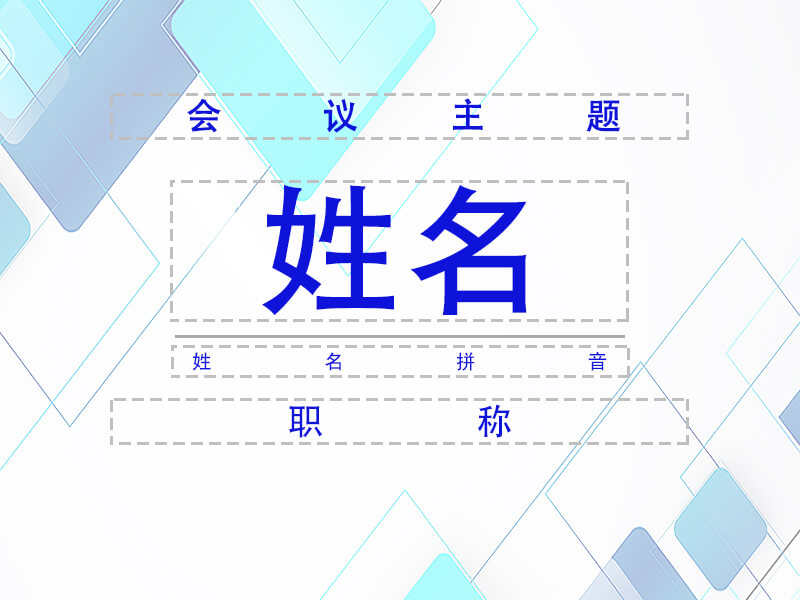
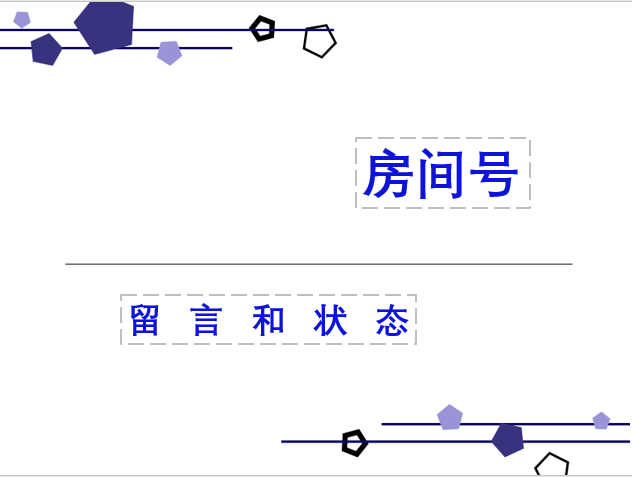
1.0.1
添加了一些页面

diff --git a/app.js b/app.js
@@ -2,24 +2,32 @@
 App({
     globalData: {
         deviceNum: 0,
-        maxModelNum: 3,
+        maxModelNum: 4,
         modelNum: 0,
         modelName: [
             '模板1',
             '模板2',
-            '模板3'
+            '模板3',
+            '模板4',
         ],
         modelRealName: [
           'BJ1.BMP',
           'BJ2.BMP',
           'BJ3.BMP',
+          'BJ1.BMP',
         ],
         modelInfo: [
             [
-                { title: '会议主题', content: '' },
-                { title: '姓名', content: '' },
-                { title: '姓名拼音', content: '' },
-                { title: '职称', content: '' }
+              {
+                title: '房间号', content: '1716房间',
+                position: { x: 400, y: 180 },
+                size: 3,
+              },
+              {
+                title: '状态', content: '',
+                position: { x: 150, y: 400 },
+                size: 2,
+              },
             ],
             [
                 { 
@@ -59,7 +67,29 @@ App({
                 position: { x: 550, y: 230 },
                 size: 1,
               },
-            ]
+            ],
+          [
+            {
+              title: '区域1', content: '',
+              position: { x: 100, y: 180 },
+              size: 2,
+            },
+            {
+              title: '区域2', content: '',
+              position: { x: 500, y: 170 },
+              size: 1,
+            },
+            {
+              title: '区域3', content: '',
+              position: { x: 500, y: 230 },
+              size: 1,
+            },
+            {
+              title: '留言', content: '',
+              position: { x: 180, y: 430 },
+              size: 1,
+            },
+          ],
         ]
     },
 

diff --git a/pages/edit/edit.js b/pages/edit/edit.js
@@ -37,17 +37,25 @@ Page({
     },
     ensure: function() {
       var devices = dataBase.getDeviceList();
-      var order = commend.c_draw_picture(app.globalData.modelRealName[this.data.modelNum]);
+     
+      var instructions = new Array();
+      instructions.push(commend.c_draw_picture(app.globalData.modelRealName[this.data.modelNum]));
       var info = app.globalData.modelInfo[this.data.modelNum];
-      for (let i = 0; i < info.length;i++){
-        if(info[i].content=='') continue;
-        order += commend.c_draw_font(info[i].position.x,info[i].position.y,info[i].size,info[i].content);
+      for (let i = 0; i < info.length; i++) {
+        if (info[i].content == '') continue;
+        instructions.push(commend.c_draw_font(info[i].position.x, info[i].position.y, info[i].size, info[i].content));
       }
+      var order={
+        instructions:Array,
+      };
+      order.instructions = instructions;
+      //console.log(JSON.stringify(order));
+      
       wx.showToast({
         title: '发送中',
         icon: "loading",
       })
-      dataBase.assignOrder(devices[this.data.deviceNum], order).then(function(res){
+      dataBase.assignOrder(devices[this.data.deviceNum], JSON.stringify(order)).then(function(res){
         console.log(res);
         if(res.data.errno==10){
           wx.hideToast();

diff --git a/dataBase/commend.js b/dataBase/commend.js
@@ -1,9 +1,27 @@
 const url = require("../utils/gbk.js");
 var c_draw_picture = function(name){
-  return "1 " + name + " ";
+  let ins = {
+    type:Number,
+    content:"",
+  };
+  ins.type = 1;
+  ins.content = name;
+  return ins;
 }
 var c_draw_font = function (x,y,size,content) {
-  return "2 " + x + " " + y + " " + size + " "+url.encode(content)+" ";
+  let ins = {
+    type: Number,
+    content: "",
+    x:Number,
+    y:Number,
+    size:Number,
+  };
+  ins.type = 2;
+  ins.content = url.encode(content);
+  ins.x = x;
+  ins.y = y;
+  ins.size = size;
+  return ins;
 }
 module.exports = {
   c_draw_picture,

diff --git a/dataBase/dataBase.js b/dataBase/dataBase.js
@@ -4,7 +4,7 @@ var getNewDevice = function(id,APIKey){//获取新的设备(服务器端)
 var queryAPIKey = function(id){//用id获取本地存储的APIKey
 
 }
-var addNewDevice = function(device){//添加设备进文件保存(本地端)
+var addNewDevice  = function(device){//添加设备进文件保存(本地端)
   var data = wx.getStorageSync("DeviceList");
   if(data==[]) data = new Array();
   data.push(device);

diff --git a/pages/model/model.js b/pages/model/model.js
@@ -9,7 +9,8 @@ Page({
         images: [
             '/images/model0.jpg',
             '/images/model2.jpg',
-            '/images/model1.jpg'
+            '/images/model1.jpg',
+            '/images/model0.jpg',
         ]
     },
 

diff --git a/pages/info/info.js b/pages/info/info.js
@@ -12,7 +12,7 @@ Page({
             {
                 title: '在线状态',
                 content: "",
-            },
+            },  
             {
                 title: '设备id',
                 content: ''
